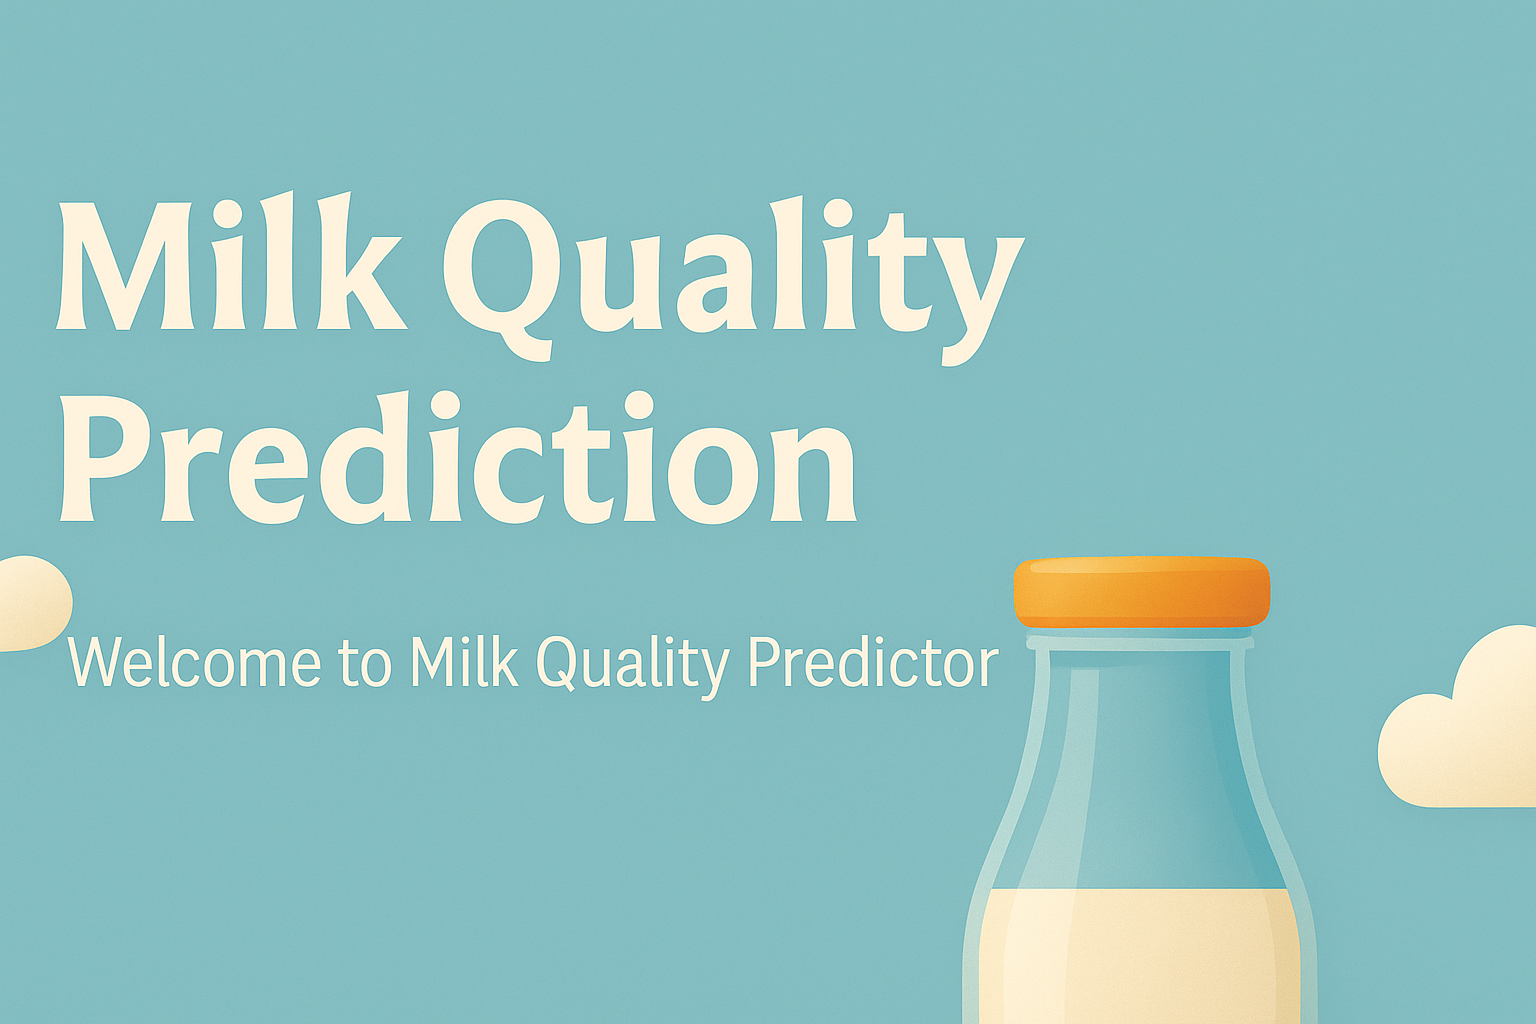
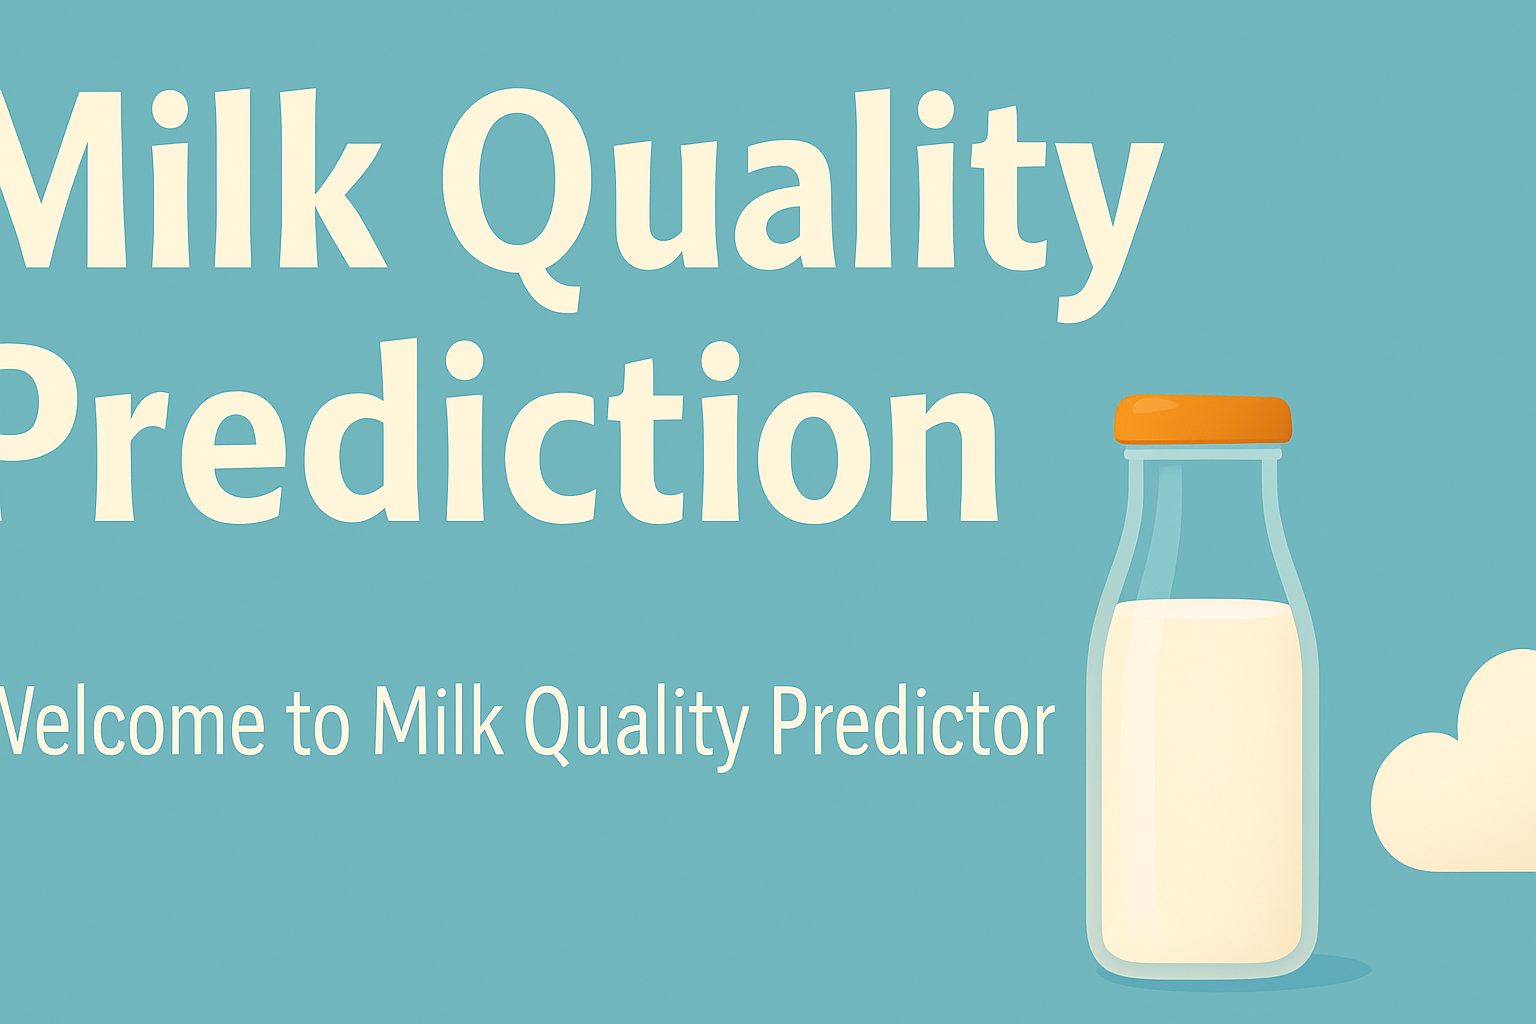
enhanced ui

Changed region(s): [[0.0, 0.0625, 0.7812, 0.5312], [0.0, 0.375, 1.0, 1.0]]

diff --git a/templates/home.html b/templates/home.html
@@ -4,43 +4,67 @@
   <meta charset="UTF-8">
   <title>Milk Quality Predictor</title>
   <style>
-    html, body {
-      height: 100%;
+    * {
       margin: 0;
       padding: 0;
+      box-sizing: border-box;
     }
 
     body {
-      background-image: url("{{ url_for('static', filename='milk_bg_clean.png') }}");
-      background-size: cover;
-      background-repeat: no-repeat;
-      background-position: center;
-      font-family: "Segoe UI", sans-serif;
-      display: flex;
-      align-items: center;
-      justify-content: center;
-      flex-direction: column;
+      font-family: 'Segoe UI', sans-serif;
+      background-color: #cceae7;
+      text-align: center;
+    }
+
+    .bg-image {
+      display: block;
+      max-width: 100%;
+      height: auto;
+      margin: 0 auto;
+    }
+
+    .btn-container {
+      margin-top: -80px; /* Adjust based on image text */
     }
 
     .btn {
-      margin-top: 20px;
+      padding: 14px 30px;
       background-color: #f5b041;
       color: white;
-      padding: 15px 30px;
-      font-size: 1.2em;
+      font-weight: bold;
       border: none;
-      border-radius: 12px;
+      border-radius: 10px;
+      font-size: 1rem;
       cursor: pointer;
-      text-decoration: none;
-      box-shadow: 0 4px 6px rgba(0, 0, 0, 0.2);
+      box-shadow: 0px 4px 10px rgba(0, 0, 0, 0.2);
+      transition: background-color 0.3s ease;
     }
 
     .btn:hover {
-      background-color: #e59866;
+      background-color: #e69520;
+    }
+
+    @media (max-width: 768px) {
+      .btn-container {
+        margin-top: -50px;
+      }
+
+      .btn {
+        padding: 12px 24px;
+        font-size: 0.9rem;
+      }
     }
   </style>
 </head>
 <body>
-  <a href="{{ url_for('predict') }}" class="btn">Get Started</a>
+
+  <!-- Full natural size image, responsive -->
+  <img src="/static/milk_bg_clean.png" alt="Milk Quality Background" class="bg-image">
+
+  <!-- Button just under the image -->
+  <div class="btn-container">
+    <a href="/predict"><button class="btn">Get Started</button></a>
+  </div>
+
 </body>
 </html>

diff --git a/templates/predict.html b/templates/predict.html
@@ -5,21 +5,33 @@
   <title>Upload Milk Data</title>
   <style>
     body {
-      background-color: #eafaf1;
-      font-family: sans-serif;
-      text-align: center;
-      padding-top: 100px;
+      margin: 0;
+      padding: 0;
+      font-family: 'Segoe UI', sans-serif;
+      background: url('/static/milk_bg.png') no-repeat center center fixed;
+      background-size: cover;
+      display: flex;
+      justify-content: center;
+      align-items: center;
+      height: 100vh;
     }
-    .upload-box {
-      background-color: #ffffff;
+
+    form {
+      background-color: rgba(255, 255, 255, 0.85);
       padding: 40px;
       border-radius: 16px;
-      box-shadow: 0 0 10px rgba(0,0,0,0.2);
-      display: inline-block;
+      box-shadow: 0 0 15px rgba(0, 0, 0, 0.2);
+      text-align: center;
     }
+
+    h2 {
+      margin-bottom: 20px;
+    }
+
     input[type="file"] {
-      margin: 10px 0;
+      margin: 15px 0;
     }
+
     .btn {
       padding: 12px 25px;
       background-color: #58d68d;
@@ -29,18 +41,17 @@
       border-radius: 8px;
       cursor: pointer;
     }
+
     .btn:hover {
       background-color: #45b977;
     }
   </style>
 </head>
 <body>
-  <div class="upload-box">
+  <form method="POST" enctype="multipart/form-data">
     <h2>Upload Milk Data CSV</h2>
-    <form method="POST" enctype="multipart/form-data">
-      <input type="file" name="file" required><br>
-      <button type="submit" class="btn">Next</button>
-    </form>
-  </div>
+    <input type="file" name="file" required><br>
+    <button type="submit" class="btn">Next</button>
+  </form>
 </body>
 </html>
